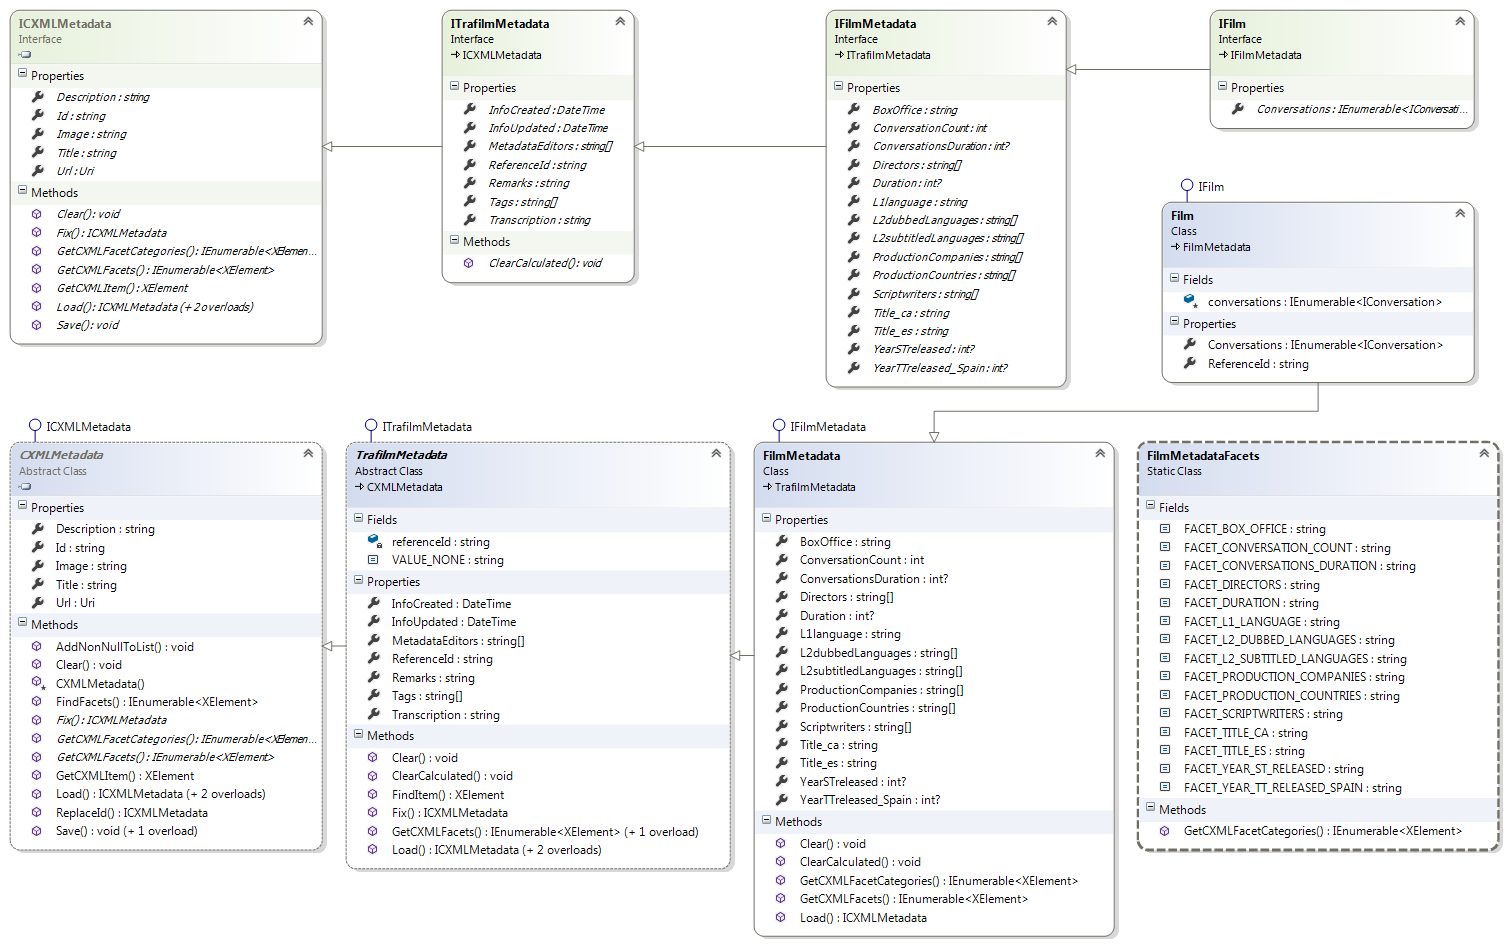
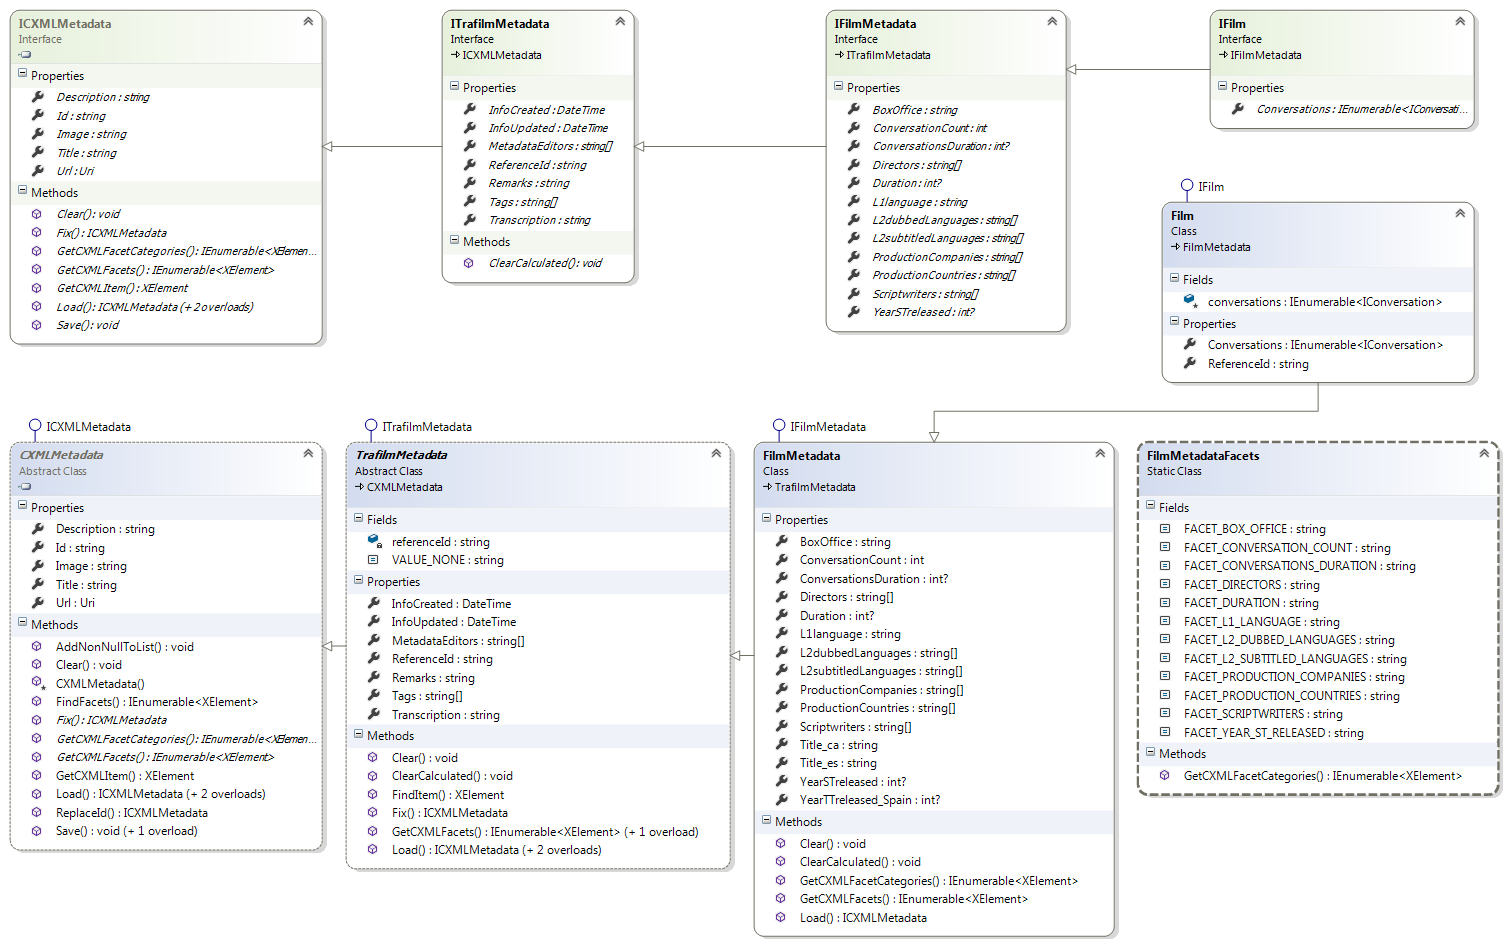
- Removed Title_ES, Title_CA and YearTTreleased_Spain from Film - Added FilmTitleTT, YearTTReleased to L3TTinstance - Updated diagrams and exported images - Updated NuGet package descriptor

Changed region(s): [[0.7485, 0.7672, 0.998, 0.9206], [0.5614, 0.3069, 0.7173, 0.4296]]

diff --git a/Metadata/L3TTinstance/L3TTinstanceMetadata.cs b/Metadata/L3TTinstance/L3TTinstanceMetadata.cs
@@ -20,6 +20,10 @@ namespace Trafilm.Metadata
     public virtual string ConversationReferenceId { get; set; } //descendents can override this property to propagate change of ReferenceId where needed
     public virtual string L3STinstanceReferenceId { get; set; } //descendents can override this property to propagate change of ReferenceId where needed
 
+    public string FilmTitleTT { get; set; }
+    public int? YearTTreleased { get; set; }
+    //public string BoxOfficeTT { get; set; }
+
     public int? StartTime { get; set; } //in minutes //Calculatable from L3STinstance
     public int? Duration { get; set; } //in minutes //Calculatable from L3STinstance
 
@@ -71,6 +75,10 @@ namespace Trafilm.Metadata
       FilmReferenceId = "";
       ConversationReferenceId = "";
       L3STinstanceReferenceId = "";
+
+      FilmTitleTT = "";
+      YearTTreleased = null;
+      //BoxOfficeTT = "";
 
       L2language = "";
       L2mode = "";
@@ -126,6 +134,10 @@ namespace Trafilm.Metadata
       FilmReferenceId = facets.CXMLFacetStringValue(L3TTinstanceMetadataFacets.FACET_FILM_REFERENCE_ID);
       ConversationReferenceId = facets.CXMLFacetStringValue(L3TTinstanceMetadataFacets.FACET_CONVERSATION_REFERENCE_ID);
       L3STinstanceReferenceId = facets.CXMLFacetStringValue(L3TTinstanceMetadataFacets.FACET_L3ST_INSTANCE_REFERENCE_ID);
+
+      FilmTitleTT = facets.CXMLFacetStringValue(L3TTinstanceMetadataFacets.FACET_FILM_TITLE_TT);
+      YearTTreleased = (int?)facets.CXMLFacetNumberValue(L3TTinstanceMetadataFacets.FACET_YEAR_TT_RELEASED);
+      //BoxOfficeTT = facets.CXMLFacetStringValue(FilmMetadataFacets.FACET_BOX_OFFICE_TT);
 
       StartTime = (int?)facets.CXMLFacetNumberValue(L3STinstanceMetadataFacets.FACET_START_TIME); //Calculatable from L3STinstance
       Duration = (int?)facets.CXMLFacetNumberValue(L3STinstanceMetadataFacets.FACET_DURATION); //Calculatable from L3STinstance
@@ -185,6 +197,10 @@ namespace Trafilm.Metadata
       AddNonNullToList(facets, CXML.MakeStringFacet(L3TTinstanceMetadataFacets.FACET_FILM_REFERENCE_ID, FilmReferenceId));
       AddNonNullToList(facets, CXML.MakeStringFacet(L3TTinstanceMetadataFacets.FACET_CONVERSATION_REFERENCE_ID, ConversationReferenceId));
       AddNonNullToList(facets, CXML.MakeStringFacet(L3TTinstanceMetadataFacets.FACET_L3ST_INSTANCE_REFERENCE_ID, L3STinstanceReferenceId));
+
+      AddNonNullToList(facets, CXML.MakeStringFacet(L3TTinstanceMetadataFacets.FACET_FILM_TITLE_TT, FilmTitleTT));
+      AddNonNullToList(facets, CXML.MakeNumberFacet(L3TTinstanceMetadataFacets.FACET_YEAR_TT_RELEASED, YearTTreleased));
+      //AddNonNullToList(facets, CXML.MakeStringFacet(L3TTinstanceMetadataFacets.FACET_BOX_OFFICE_TT, BoxOfficeTT));
 
       AddNonNullToList(facets, CXML.MakeNumberFacet(L3STinstanceMetadataFacets.FACET_START_TIME, StartTime));
       AddNonNullToList(facets, CXML.MakeNumberFacet(L3STinstanceMetadataFacets.FACET_DURATION, Duration));

diff --git a/Metadata/Film/FilmMetadata.cs b/Metadata/Film/FilmMetadata.cs
@@ -1,6 +1,6 @@
 //Project: Trafilm.Metadata (https://github.com/Zoomicon/Trafilm.Metadata)
 //Filename: FilmMetadata.cs
-//Version: 20160907
+//Version: 20160908
 
 using Metadata.CXML;
 using Trafilm.Metadata.Models;
@@ -54,10 +54,6 @@ namespace Trafilm.Metadata
     {
       base.Clear();
 
-      Title_es = "";
-      Title_ca = "";
-      //...
-
       Duration = null;
 
       Directors = new string[] { };
@@ -70,8 +66,6 @@ namespace Trafilm.Metadata
       YearSTreleased = null;
 
       L1language = "";
-
-      YearTTreleased_Spain = null;
 
       //note: don't call ClearCalculated here, has been called by base.Clear() already
     }
@@ -93,10 +87,6 @@ namespace Trafilm.Metadata
 
       IEnumerable<XElement> facets = FindFacets(item);
 
-      Title_es = facets.CXMLFacetStringValue(FilmMetadataFacets.FACET_TITLE_ES);
-      Title_ca = facets.CXMLFacetStringValue(FilmMetadataFacets.FACET_TITLE_CA);
-      //...
-
       Duration = (int?)facets.CXMLFacetNumberValue(FilmMetadataFacets.FACET_DURATION);
 
       Directors = facets.CXMLFacetStringValues(FilmMetadataFacets.FACET_DIRECTORS);
@@ -109,8 +99,6 @@ namespace Trafilm.Metadata
       YearSTreleased = (int?)facets.CXMLFacetNumberValue(FilmMetadataFacets.FACET_YEAR_ST_RELEASED);
 
       L1language = facets.CXMLFacetStringValue(FilmMetadataFacets.FACET_L1_LANGUAGE);
-
-      YearTTreleased_Spain = (int?)facets.CXMLFacetNumberValue(FilmMetadataFacets.FACET_YEAR_TT_RELEASED_SPAIN);
 
       //Calculatable from Conversations.L3STinstances.L3TTinstances//
 
@@ -137,10 +125,6 @@ namespace Trafilm.Metadata
 
       base.GetCXMLFacets(facets);
 
-      AddNonNullToList(facets, CXML.MakeStringFacet(FilmMetadataFacets.FACET_TITLE_ES, Title_es));
-      AddNonNullToList(facets, CXML.MakeStringFacet(FilmMetadataFacets.FACET_TITLE_CA, Title_ca));
-      //...
-
       AddNonNullToList(facets, CXML.MakeNumberFacet(FilmMetadataFacets.FACET_DURATION, Duration));
 
       AddNonNullToList(facets, CXML.MakeStringFacet(FilmMetadataFacets.FACET_DIRECTORS, Directors));
@@ -153,8 +137,6 @@ namespace Trafilm.Metadata
       AddNonNullToList(facets, CXML.MakeNumberFacet(FilmMetadataFacets.FACET_YEAR_ST_RELEASED, YearSTreleased));
 
       AddNonNullToList(facets, CXML.MakeStringFacet(FilmMetadataFacets.FACET_L1_LANGUAGE, L1language));
-
-      AddNonNullToList(facets, CXML.MakeNumberFacet(FilmMetadataFacets.FACET_YEAR_TT_RELEASED_SPAIN, YearTTreleased_Spain));
 
       //Calculatable from Conversations.L3STinstances.L3TTinstances//
 

diff --git a/Metadata/Film/FilmMetadataFacets.cs b/Metadata/Film/FilmMetadataFacets.cs
@@ -1,6 +1,6 @@
 //Project: Trafilm.Metadata (https://github.com/Zoomicon/Trafilm.Metadata)
 //Filename: FilmMetadataFacets.cs
-//Version: 20160907
+//Version: 20160908
 
 using Metadata.CXML;
 using System.Collections.Generic;
@@ -14,10 +14,6 @@ namespace Trafilm.Metadata
 
     #region --- Properties ---
 
-    public const string FACET_TITLE_ES = "Title in Spanish";
-    public const string FACET_TITLE_CA = "Title in Catalan";
-    //...
-
     public const string FACET_DURATION = "Duration (min)";
 
     public const string FACET_DIRECTORS = "Director(s)";
@@ -30,8 +26,6 @@ namespace Trafilm.Metadata
     public const string FACET_YEAR_ST_RELEASED = "Year ST released";
 
     public const string FACET_L1_LANGUAGE = "Main language (L1)";
-
-    public const string FACET_YEAR_TT_RELEASED_SPAIN = "Year TT released in Spain";
 
     //Calculatable from Conversations.L3STinstances.L3TTinstances//
 
@@ -56,10 +50,6 @@ namespace Trafilm.Metadata
 
       //
 
-      result.Add(CXML.MakeFacetCategory(FilmMetadataFacets.FACET_TITLE_ES, CXML.VALUE_STRING, null, isFilterVisible: true, isMetadataVisible: true, isWordWheelVisible: true));
-      result.Add(CXML.MakeFacetCategory(FilmMetadataFacets.FACET_TITLE_CA, CXML.VALUE_STRING, null, isFilterVisible: true, isMetadataVisible: true, isWordWheelVisible: true));
-      //...
-
       result.Add(CXML.MakeFacetCategory(FilmMetadataFacets.FACET_DURATION, CXML.VALUE_NUMBER, null, isFilterVisible: true, isMetadataVisible: true, isWordWheelVisible: false));
 
       result.Add(CXML.MakeFacetCategory(FilmMetadataFacets.FACET_DIRECTORS, CXML.VALUE_STRING, null, isFilterVisible: true, isMetadataVisible: true, isWordWheelVisible: true));
@@ -72,8 +62,6 @@ namespace Trafilm.Metadata
 
       result.Add(CXML.MakeFacetCategory(FilmMetadataFacets.FACET_YEAR_ST_RELEASED, CXML.VALUE_NUMBER, null, isFilterVisible: true, isMetadataVisible: true, isWordWheelVisible: false));
       result.Add(CXML.MakeFacetCategory(FilmMetadataFacets.FACET_L1_LANGUAGE, CXML.VALUE_STRING, null, isFilterVisible: true, isMetadataVisible: true, isWordWheelVisible: true));
-
-      result.Add(CXML.MakeFacetCategory(FilmMetadataFacets.FACET_YEAR_TT_RELEASED_SPAIN, CXML.VALUE_NUMBER, null, isFilterVisible: true, isMetadataVisible: true, isWordWheelVisible: false));
 
       //Calculatable from Conversations//
 

diff --git a/Metadata/L3TTinstance/L3TTinstanceMetadataFacets.cs b/Metadata/L3TTinstance/L3TTinstanceMetadataFacets.cs
@@ -18,6 +18,10 @@ namespace Trafilm.Metadata
     public const string FACET_CONVERSATION_REFERENCE_ID = "Conversation Reference Id";
     public const string FACET_L3ST_INSTANCE_REFERENCE_ID = "L3ST-instance Reference Id";
 
+    public const string FACET_FILM_TITLE_TT = "Film Title TT";
+    public const string FACET_YEAR_TT_RELEASED = "Year TT released";
+    //public const string FACET_BOX_OFFICE_TT = "Box office TT";
+
     public const string FACET_START_TIME = "Start time (min)"; //Calculatable from L3STinstance
     public const string FACET_DURATION = "Duration (min)"; //Calculatable from L3STinstance
 
@@ -74,6 +78,10 @@ namespace Trafilm.Metadata
       result.Add(CXML.MakeFacetCategory(L3TTinstanceMetadataFacets.FACET_FILM_REFERENCE_ID, CXML.VALUE_STRING, null, isFilterVisible: true, isMetadataVisible: true, isWordWheelVisible: true));
       result.Add(CXML.MakeFacetCategory(L3TTinstanceMetadataFacets.FACET_CONVERSATION_REFERENCE_ID, CXML.VALUE_STRING, null, isFilterVisible: true, isMetadataVisible: true, isWordWheelVisible: true));
       result.Add(CXML.MakeFacetCategory(L3TTinstanceMetadataFacets.FACET_L3ST_INSTANCE_REFERENCE_ID, CXML.VALUE_STRING, null, isFilterVisible: true, isMetadataVisible: true, isWordWheelVisible: true));
+
+      result.Add(CXML.MakeFacetCategory(L3TTinstanceMetadataFacets.FACET_FILM_TITLE_TT, CXML.VALUE_STRING, null, isFilterVisible: true, isMetadataVisible: true, isWordWheelVisible: true));
+      result.Add(CXML.MakeFacetCategory(L3TTinstanceMetadataFacets.FACET_YEAR_TT_RELEASED, CXML.VALUE_NUMBER, null, isFilterVisible: true, isMetadataVisible: true, isWordWheelVisible: false));
+      //result.Add(CXML.MakeFacetCategory(L3TTinstanceMetadataFacets.FACET_BOX_OFFICE_TT, CXML.VALUE_STRING, null, isFilterVisible: true, isMetadataVisible: true, isWordWheelVisible: false));
 
       result.Add(CXML.MakeFacetCategory(L3TTinstanceMetadataFacets.FACET_START_TIME, CXML.VALUE_NUMBER, null, isFilterVisible: true, isMetadataVisible: true, isWordWheelVisible: false)); //Calculatable from L3STinstance
       result.Add(CXML.MakeFacetCategory(L3TTinstanceMetadataFacets.FACET_DURATION, CXML.VALUE_NUMBER, null, isFilterVisible: true, isMetadataVisible: true, isWordWheelVisible: false)); //Calculatable from L3STinstance

diff --git a/Metadata/Film/IFilmMetadata.cs b/Metadata/Film/IFilmMetadata.cs
@@ -1,6 +1,6 @@
 //Project: Trafilm.Metadata (https://github.com/Zoomicon/Trafilm.Metadata)
 //Filename: IFilmMetadata.cs
-//Version: 20160906
+//Version: 20160908
 
 using System;
 
@@ -11,10 +11,6 @@ namespace Trafilm.Metadata.Models
   {
 
     #region --- Properties ---
-
-    string Title_es { get; set; }
-    string Title_ca { get; set; }
-    //...
 
     int? Duration { get; set; } //in minutes
 
@@ -28,8 +24,6 @@ namespace Trafilm.Metadata.Models
     int? YearSTreleased { get; set; }
 
     string L1language { get; set; }
-
-    int? YearTTreleased_Spain { get; set; }
 
     //Calculatable from Conversations.L3STinstances.L3TTinstances//
 

diff --git a/Metadata/L3TTinstance/IL3TTinstanceMetadata.cs b/Metadata/L3TTinstance/IL3TTinstanceMetadata.cs
@@ -14,6 +14,10 @@ namespace Trafilm.Metadata.Models
     string ConversationReferenceId { get; set; }
     string L3STinstanceReferenceId { get; set; }
 
+    string FilmTitleTT { get; set; }
+    int? YearTTreleased { get; set; }
+    //string BoxOfficeTT { get; set; }
+
     int? StartTime { get; set; } //in minutes //Calculatable from L3STinstance
     int? Duration { get; set; } //in minutes //Calculatable from L3STinstance
 
